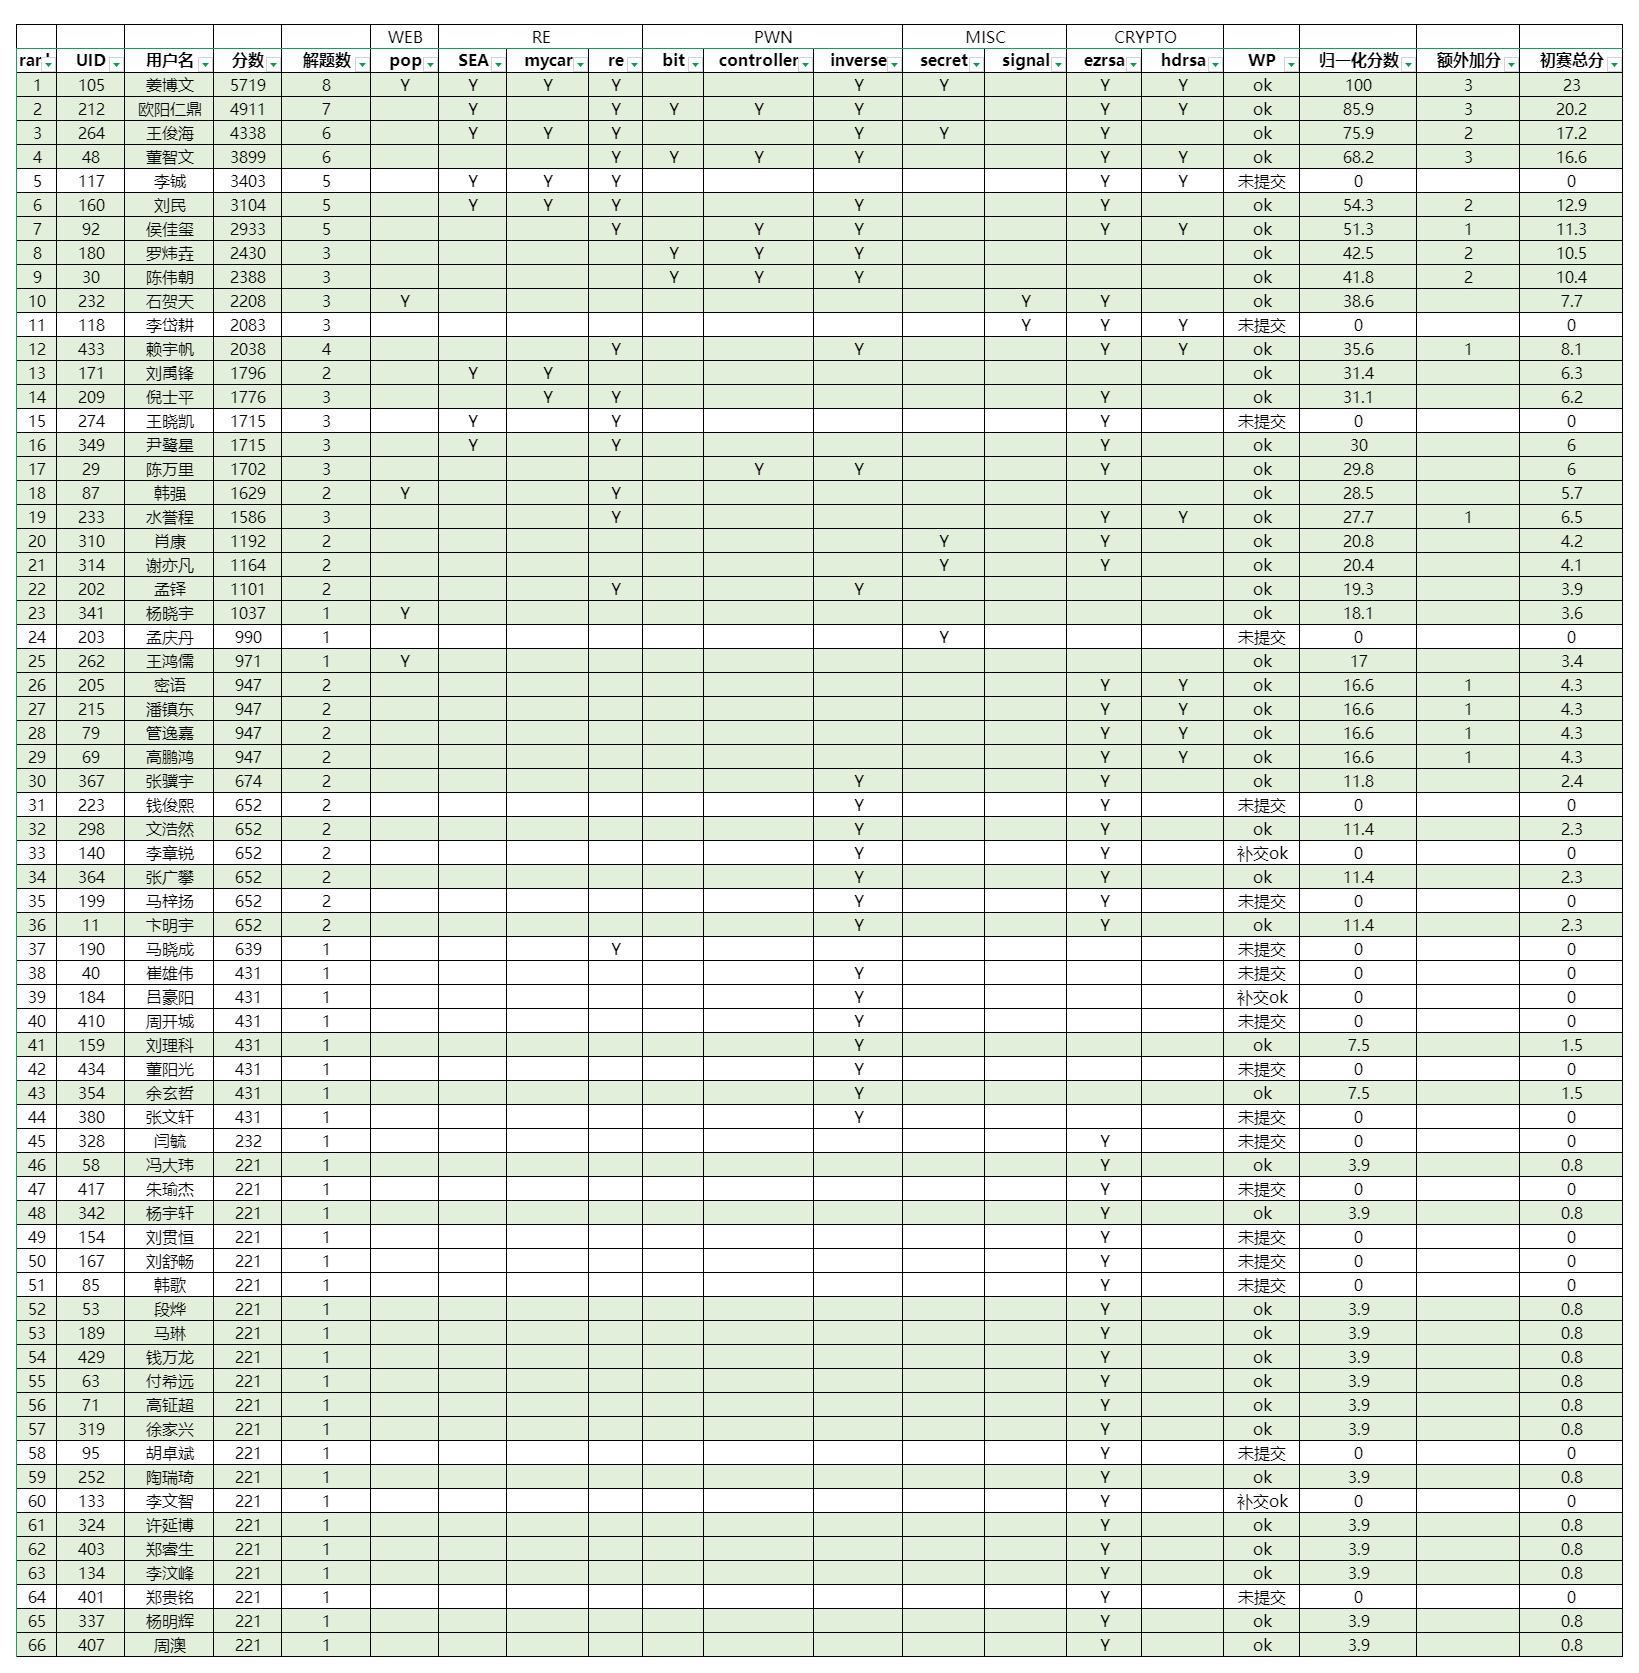
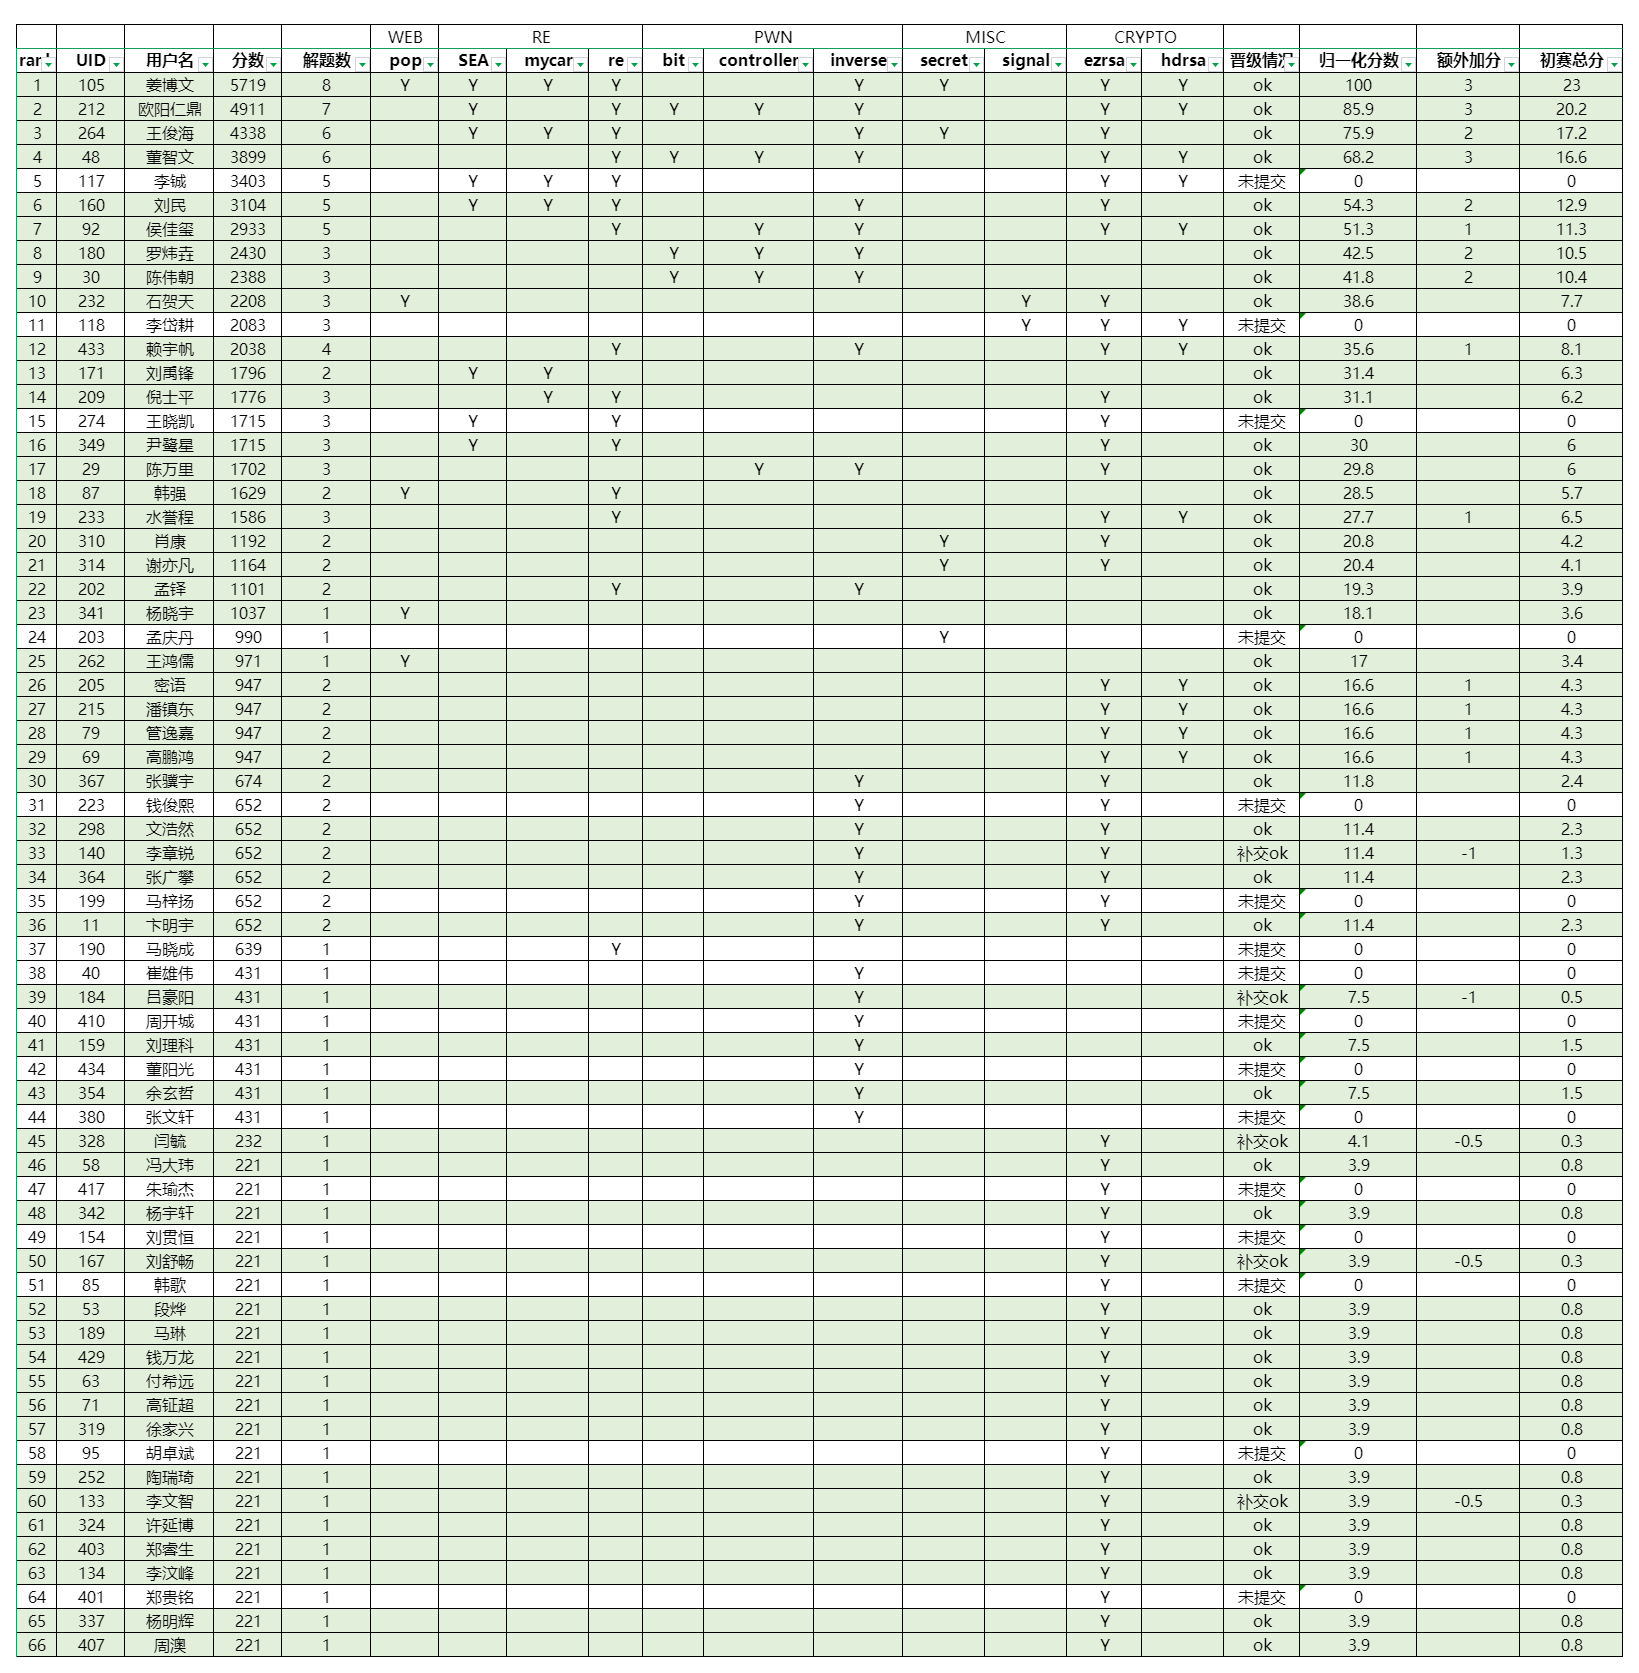
backup

diff --git a/content/post/23-11-20-2/index.md b/content/post/23-11-20-2/index.md
@@ -19,7 +19,7 @@ summary: IOI成绩公示
 
 <img src="image2.png"/>
 
-上述成绩仅为初赛结束时成绩排名，尚未经过审核，代码公示截止至11月21日17时，审核通过后且【初赛总分】不为0的同学视为晋级。
+上述成绩为审核成绩有效的成绩排名，代码公示截止至11月21日17时，【初赛总分】不为0的同学视为晋级。
 
 选手提交代码将在平台上公开查看，点击进入Hws山东站预选赛，在右侧一栏中有提交信息，点击进入，进入之后可以查看到比赛中所有人的所有提交信息，接下来可以看到id属性为蓝色，点击对应提交信息的id即可进入查看该提交的详细信息
 

diff --git a/content/post/23-11-20-1/index.md b/content/post/23-11-20-1/index.md
@@ -13,7 +13,7 @@ summary: CTF成绩公示
 
 1）归一化分数：当前选手分数/第一名分数*100，保留小数点后一位
 
-2）额外加分：对于除WEB外其余分类赛题全部解出可以额外加分，RE/PWN/MISC加2分，CRYPTO加1分
+2）额外加分：对于除WEB外其余分类赛题全部解出可以额外加分，RE/PWN/MISC加2分，CRYPTO加1分，补交WP的若归一化分数*20%满1分则扣1分，否则扣0.5分
 
 3）初赛总分：归一化分数*20%+额外加分
 
